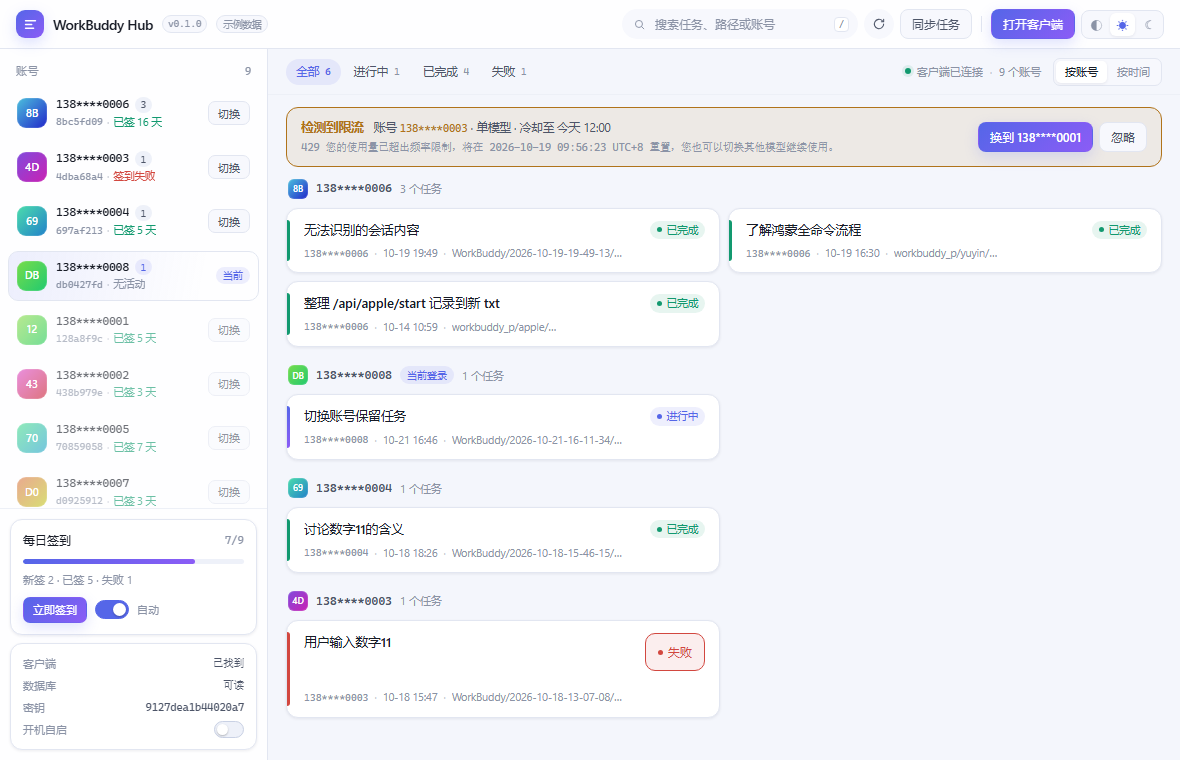
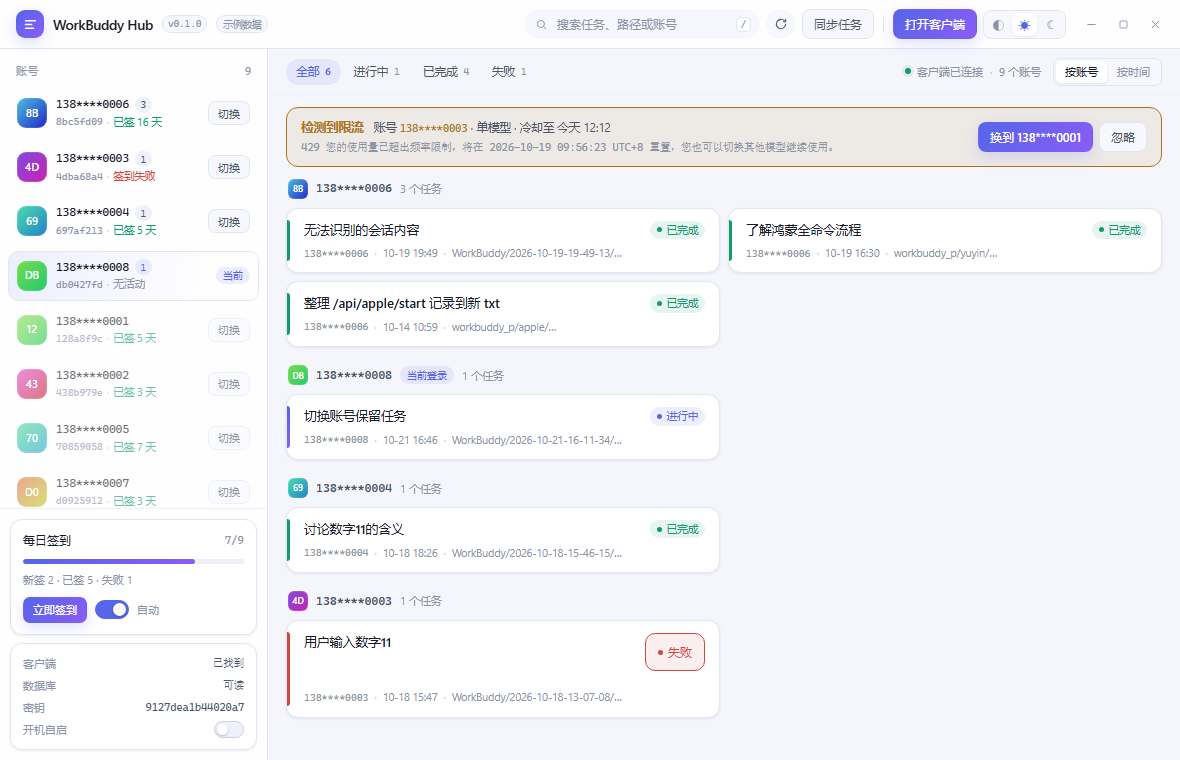
style: 去掉系统标题栏，窗口按钮并入顶栏
- decorations 关闭，顶栏作为自定义标题栏：drag-region 拖动、双击最大化/还原
- 主题切换后依次放 最小化 / 最大化 / 关闭（关闭仍隐藏到托盘）
- 补 window 权限：minimize、toggle-maximize、close、is-maximized、start-dragging
- 文档与截图同步

Changed region(s): [[0.7017, 0.0, 0.9763, 0.0605], [0.4576, 0.0, 0.6712, 0.0605], [0.4881, 0.1513, 0.5186, 0.1816]]

diff --git a/src/App.tsx b/src/App.tsx
@@ -1,5 +1,6 @@
-import { useEffect, useMemo, useRef, useState } from 'react';
+import { useEffect, useMemo, useRef, useState, type MouseEvent as ReactMouseEvent } from 'react';
 import { listen } from '@tauri-apps/api/event';
+import { getCurrentWindow } from '@tauri-apps/api/window';
 import TaskDetail from './TaskDetail';
 import {
   autostartGet,
@@ -121,6 +122,7 @@ export default function App() {
   const [themeMode, setThemeMode] = useState<ThemeMode>(() => loadThemeMode());
   const [checkin, setCheckin] = useState<CheckinStore | null>(null);
   const [profiles, setProfiles] = useState<ProfileStore | null>(null);
+  const [maximized, setMaximized] = useState(false);
   const [checkinBusy, setCheckinBusy] = useState(false);
   const [checkinStep, setCheckinStep] = useState('');
   const progressRef = useRef<(() => void) | null>(null);
@@ -209,6 +211,24 @@ export default function App() {
     return () => window.clearTimeout(id);
   }, [toast]);
 
+  // 自定义标题栏：跟随窗口的还原/最大化状态换图标
+  useEffect(() => {
+    if (!isTauri) return;
+    const win = getCurrentWindow();
+    let unlisten: (() => void) | undefined;
+    const sync = () => {
+      win.isMaximized().then(setMaximized).catch(() => {});
+    };
+    sync();
+    win
+      .onResized(sync)
+      .then((f) => {
+        unlisten = f;
+      })
+      .catch(() => {});
+    return () => unlisten?.();
+  }, []);
+
   // 按 / 直接聚焦搜索，和大多数列表类工具的习惯一致
   useEffect(() => {
     const onKey = (e: KeyboardEvent) => {
@@ -234,6 +254,25 @@ export default function App() {
     }, 60_000);
     return () => window.clearInterval(id);
   }, []);
+
+  async function winAction(action: 'min' | 'max' | 'close') {
+    if (!isTauri) return;
+    const win = getCurrentWindow();
+    try {
+      if (action === 'min') await win.minimize();
+      else if (action === 'max') await win.toggleMaximize();
+      else await win.close(); // 关窗走后端逻辑：隐藏到托盘
+    } catch (e) {
+      setToast({ kind: 'err', text: `窗口操作失败：${String(e)}` });
+    }
+  }
+
+  // 双击标题栏空白处 = 最大化/还原；点在按钮或输入框上不触发
+  function onTitlebarDoubleClick(e: ReactMouseEvent<HTMLElement>) {
+    const el = e.target as HTMLElement;
+    if (el.closest('button, input, label, .theme-switch, .window-controls')) return;
+    void winAction('max');
+  }
 
   async function toggleAutostart(next: boolean) {
     try {
@@ -444,8 +483,12 @@ export default function App() {
 
   return (
     <div className="app">
-      <header className="topbar">
-        <div className="brand">
+      <header
+        className="topbar"
+        data-tauri-drag-region
+        onDoubleClick={onTitlebarDoubleClick}
+      >
+        <div className="brand" data-tauri-drag-region>
           <span className="mark">
             <svg viewBox="0 0 24 24" fill="none" aria-hidden="true">
               <path
@@ -456,8 +499,10 @@ export default function App() {
               />
             </svg>
           </span>
-          <h1>WorkBuddy Hub</h1>
-          <span className="version">v0.1.0</span>
+          <h1 data-tauri-drag-region>WorkBuddy Hub</h1>
+          <span className="version" data-tauri-drag-region>
+            v0.1.0
+          </span>
           {!isTauri && <span className="mock">示例数据</span>}
         </div>
 
@@ -516,6 +561,72 @@ export default function App() {
                 {t.icon}
               </button>
             ))}
+          </div>
+
+          <div className="window-controls">
+            <button
+              className="win-btn"
+              title="最小化"
+              aria-label="最小化"
+              onClick={() => void winAction('min')}
+            >
+              <svg viewBox="0 0 24 24" fill="none" aria-hidden="true">
+                <path d="M5 12h14" stroke="currentColor" strokeWidth="1.8" strokeLinecap="round" />
+              </svg>
+            </button>
+            <button
+              className="win-btn"
+              title={maximized ? '向下还原' : '最大化'}
+              aria-label={maximized ? '向下还原' : '最大化'}
+              onClick={() => void winAction('max')}
+            >
+              <svg viewBox="0 0 24 24" fill="none" aria-hidden="true">
+                {maximized ? (
+                  <>
+                    <rect
+                      x="5.5"
+                      y="8"
+                      width="10.5"
+                      height="10.5"
+                      rx="1.6"
+                      stroke="currentColor"
+                      strokeWidth="1.6"
+                    />
+                    <path
+                      d="M8.5 8V6.2c0-.66.54-1.2 1.2-1.2h8.1c.66 0 1.2.54 1.2 1.2v8.1c0 .66-.54 1.2-1.2 1.2H16"
+                      stroke="currentColor"
+                      strokeWidth="1.6"
+                      strokeLinecap="round"
+                    />
+                  </>
+                ) : (
+                  <rect
+                    x="5.5"
+                    y="5.5"
+                    width="13"
+                    height="13"
+                    rx="1.8"
+                    stroke="currentColor"
+                    strokeWidth="1.6"
+                  />
+                )}
+              </svg>
+            </button>
+            <button
+              className="win-btn close"
+              title="关闭到托盘"
+              aria-label="关闭"
+              onClick={() => void winAction('close')}
+            >
+              <svg viewBox="0 0 24 24" fill="none" aria-hidden="true">
+                <path
+                  d="M6 6l12 12M18 6 6 18"
+                  stroke="currentColor"
+                  strokeWidth="1.8"
+                  strokeLinecap="round"
+                />
+              </svg>
+            </button>
           </div>
         </div>
       </header>

diff --git a/src/styles.css b/src/styles.css
@@ -145,7 +145,7 @@ input {
   align-items: center;
   justify-content: space-between;
   gap: 16px;
-  padding: 9px 16px;
+  padding: 9px 10px 9px 16px;
   border-bottom: 1px solid var(--line);
   background: var(--surface-glass);
   backdrop-filter: blur(14px);
@@ -393,6 +393,48 @@ input {
   background: var(--surface);
   color: var(--accent);
   box-shadow: var(--shadow-sm);
+}
+
+/* 自定义标题栏按钮（无边框窗口） */
+
+.window-controls {
+  display: flex;
+  align-items: center;
+  gap: 2px;
+  margin-left: 4px;
+}
+
+.win-btn {
+  width: 30px;
+  height: 30px;
+  display: grid;
+  place-items: center;
+  padding: 0;
+  border: 0;
+  border-radius: 7px;
+  background: transparent;
+  color: var(--ink-3);
+  cursor: pointer;
+  transition: background 0.15s var(--ease), color 0.15s var(--ease);
+}
+
+.win-btn:hover {
+  background: var(--surface-3);
+  color: var(--ink);
+}
+
+.win-btn:active {
+  background: var(--line);
+}
+
+.win-btn.close:hover {
+  background: #e5484d;
+  color: #fff;
+}
+
+.win-btn svg {
+  width: 13px;
+  height: 13px;
 }
 
 /* ---------- 主体 ---------- */

diff --git a/README.md b/README.md
@@ -192,8 +192,11 @@ hub checkin --uid 128a8f9c    # 只处理一个账号
 
 ### 托盘、自启与单实例
 
+窗口是**无边框**的：顶部这一行就是标题栏，拖空白处可以移动窗口，双击最大化 / 还原；
+最右侧依次是主题切换和「最小化 / 最大化 / 关闭」。
+
 关窗不再退出进程，只隐藏到托盘 —— 切号和签到调度都需要它活着。
-托盘左键点击显示窗口，右键菜单「显示主窗口 / 退出」。
+托盘左键点击显示窗口，右键菜单「显示主窗口 / 退出」；Alt+F4 同样是隐藏到托盘。
 
 开机自启没有引入插件，直接写注册表 `HKCU\Software\Microsoft\Windows\CurrentVersion\Run`
 的 `WorkBuddyHub` 项：只影响当前用户，不需要管理员权限，卸载时删掉该项即可。

diff --git a/docs/workbuddy-hub-技术说明.md b/docs/workbuddy-hub-技术说明.md
@@ -140,6 +140,7 @@ hub checkin                # 逐账号签到
 | 托盘常驻 | 关窗只隐藏，托盘菜单「显示主窗口 / 退出」，左键单击拉回前台 |
 | 单实例 | 第二个进程通过 `127.0.0.1:47821` 叫出已有窗口后退出 |
 | 主题 | 跟随系统 / 浅色 / 深色；`data-theme` + `prefers-color-scheme` 监听 |
+| 无边框标题栏 | 隐藏系统标题栏，顶部一行 `data-tauri-drag-region` 可拖动、双击最大化；窗口按钮在主题切换之后 |
 | 每日签到 | 侧栏卡片显示进度与连签天数，账号行标记成败，手动 / 自动两种触发 |
 | 开机自启 | 勾选后写 `HKCU\...\Run\WorkBuddyHub`，卸载时手动删该项即可 |
 
